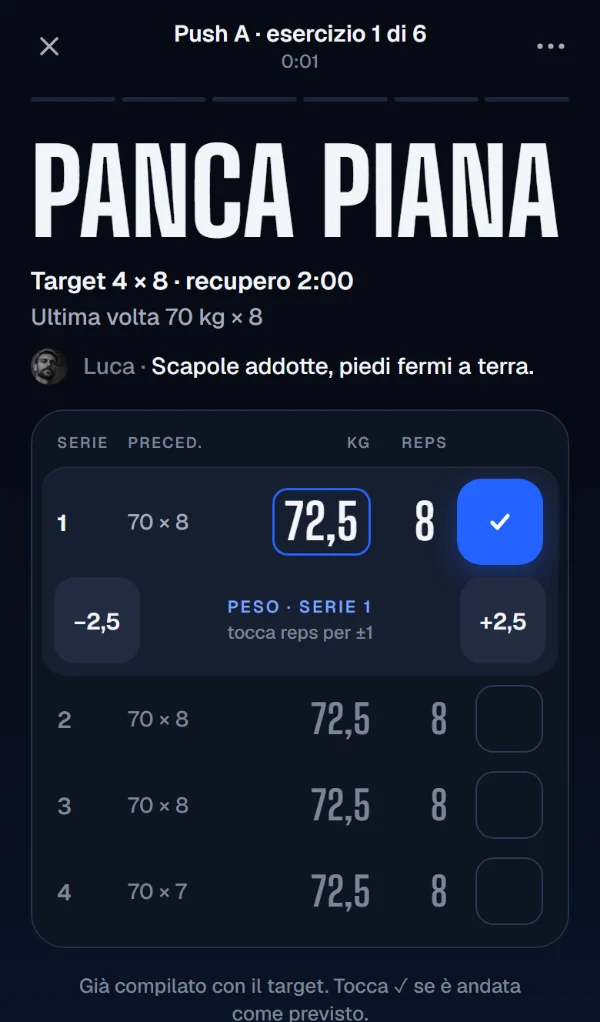
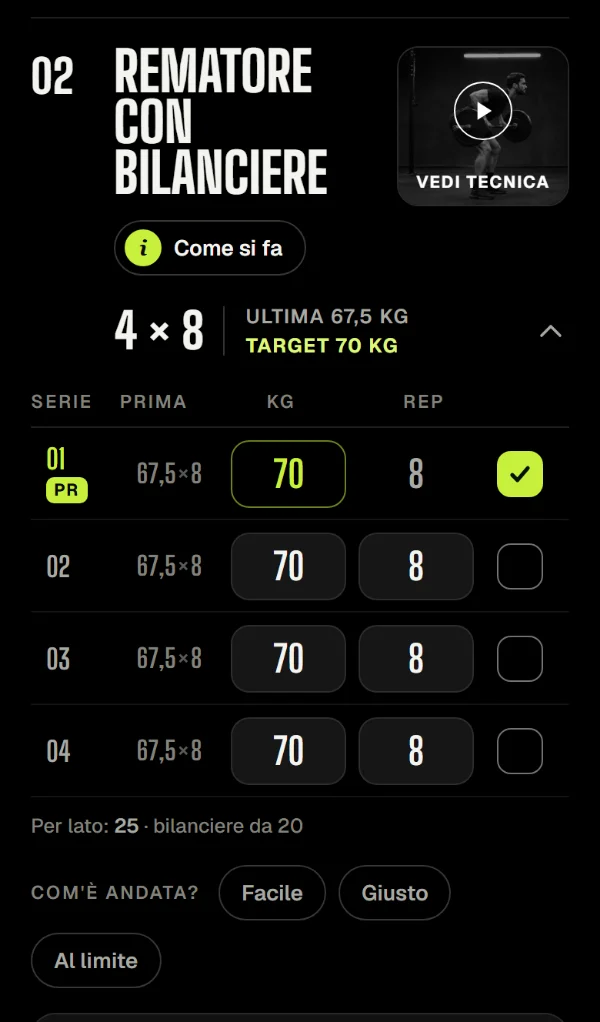
feat: sito in nero e lime, testi e schermate aggiornati (scheda, Come si fa, programma dal coach; via il timer)

diff --git a/assets/css/sito.css b/assets/css/sito.css
@@ -20,7 +20,7 @@ a.btn-secondario { color: var(--gesso); }
 /* Sezioni chiare */
 .chiaro { background: var(--gesso); color: var(--notte-0); }
 .chiaro .sopratitolo { color: var(--voltaico); }
-.chiaro .testo-grande { color: #3B4457; }
+.chiaro .testo-grande { color: #4A4A45; }
 
 /* Testata (non fissa) */
 .testata-sito {
@@ -38,8 +38,8 @@ a.btn-secondario { color: var(--gesso); }
 .apertura { position: relative; overflow: hidden; padding: 150px 0 96px; min-height: 100vh; display: flex; align-items: center; }
 .apertura-foto { position: absolute; inset: 0; }
 .apertura-foto img { width: 100%; height: 100%; object-fit: cover; object-position: 30% 25%; filter: grayscale(1) contrast(1.05); }
-.apertura-foto::before { content: ''; position: absolute; inset: 0; background: #0B2A6B; mix-blend-mode: color; opacity: .45; }
-.apertura-foto::after { content: ''; position: absolute; inset: 0; background: linear-gradient(90deg, rgba(6, 8, 13, .92) 0%, rgba(6, 8, 13, .7) 45%, rgba(6, 8, 13, .35) 100%), linear-gradient(rgba(6, 8, 13, .6), rgba(6, 8, 13, 0) 30%, rgba(6, 8, 13, 0) 70%, var(--notte-0)); }
+.apertura-foto::before { content: none; } /* nero e lime: foto in B/N puro, senza viraggio blu */
+.apertura-foto::after { content: ''; position: absolute; inset: 0; background: linear-gradient(90deg, rgba(0, 0, 0, .92) 0%, rgba(0, 0, 0, .7) 45%, rgba(0, 0, 0, .35) 100%), linear-gradient(rgba(0, 0, 0, .6), rgba(0, 0, 0, 0) 30%, rgba(0, 0, 0, 0) 70%, var(--notte-0)); }
 .apertura-griglia { position: relative; display: grid; grid-template-columns: minmax(0, 1.25fr) minmax(0, .75fr); gap: 56px; align-items: center; }
 .sottotitolo { font: 400 clamp(18px, 2vw, 22px)/1.5 var(--testo); color: var(--ardesia); margin: 26px 0 0; max-width: 560px; text-wrap: pretty; }
 .azioni-apertura { display: flex; flex-wrap: wrap; gap: 12px; margin-top: 34px; }
@@ -48,16 +48,16 @@ a.btn-secondario { color: var(--gesso); }
 .nota-demo b { color: var(--gesso); letter-spacing: .08em; }
 
 /* Telefoni con le schermate vere */
-.telefono { margin: 0; padding: 10px; border-radius: 52px; background: #1d2129; box-shadow: inset 0 0 0 1px rgba(255, 255, 255, .1), 0 40px 90px rgba(0, 0, 0, .55); max-width: 360px; justify-self: center; }
+.telefono { margin: 0; padding: 10px; border-radius: 52px; background: #1C1C1C; box-shadow: inset 0 0 0 1px rgba(255, 255, 255, .1), 0 40px 90px rgba(0, 0, 0, .55); max-width: 360px; justify-self: center; }
 .telefono img { width: 100%; height: auto; border-radius: 42px; }
-.chiaro .telefono { box-shadow: inset 0 0 0 1px rgba(255, 255, 255, .1), 0 30px 70px rgba(6, 8, 13, .25); }
+.chiaro .telefono { box-shadow: inset 0 0 0 1px rgba(255, 255, 255, .1), 0 30px 70px rgba(0, 0, 0, .25); }
 
 /* 2 · tre punti */
 .tre-punti { list-style: none; margin: 48px 0 0; padding: 0; display: grid; grid-template-columns: repeat(3, minmax(0, 1fr)); gap: 28px; }
 .tre-punti li { display: flex; flex-direction: column; gap: 8px; padding-top: 18px; border-top: 2px solid currentColor; }
 .tre-punti b { font: 700 28px/1 var(--display); text-transform: uppercase; }
 .tre-punti span { font: 400 16px/1.5 var(--testo); color: var(--ardesia); }
-.chiaro .tre-punti span { color: #3B4457; }
+.chiaro .tre-punti span { color: #4A4A45; }
 
 /* 3 · fila di telefoni */
 .intestazione-sezione { max-width: 760px; }
@@ -67,27 +67,27 @@ a.btn-secondario { color: var(--gesso); }
 .fila-telefoni figcaption b { display: block; font: 700 26px/1 var(--display); text-transform: uppercase; color: var(--gesso); margin-bottom: 6px; }
 
 /* 4 · gestionale */
-.schermo-pc { margin: 56px 0 0; padding: 10px; border-radius: 22px; background: #1d2129; box-shadow: 0 40px 90px rgba(6, 8, 13, .3); }
+.schermo-pc { margin: 56px 0 0; padding: 10px; border-radius: 22px; background: #1C1C1C; box-shadow: 0 40px 90px rgba(0, 0, 0, .3); }
 .schermo-pc img { width: 100%; height: auto; border-radius: 14px; display: block; }
 
 /* 5 / 6 · due colonne */
 .due-colonne { display: grid; grid-template-columns: minmax(0, 1fr) minmax(0, 1fr); gap: 64px; align-items: center; }
-.esempio-contesto { margin: 30px 0 0; padding: 18px 20px; border-radius: 18px; background: #142453; border: 1px solid #1F3A80; font: 400 17px/1.45 var(--testo); max-width: 460px; }
-.esempio-contesto span { display: block; width: fit-content; margin-bottom: 10px; padding: 4px 10px; border-radius: 8px; background: rgba(6, 8, 13, .35); border: 1px solid rgba(122, 162, 255, .25); font: 600 13px/18px var(--testo); color: var(--voltaico-chiaro); }
+.esempio-contesto { margin: 30px 0 0; padding: 18px 20px; border-radius: 18px; background: rgba(200, 240, 60, .1); border: 1px solid rgba(200, 240, 60, .3); font: 400 17px/1.45 var(--testo); max-width: 460px; }
+.esempio-contesto span { display: block; width: fit-content; margin-bottom: 10px; padding: 4px 10px; border-radius: 8px; background: rgba(0, 0, 0, .35); border: 1px solid rgba(221, 247, 122, .25); font: 600 13px/18px var(--testo); color: var(--voltaico-chiaro); }
 .foto-sezione { margin: 0; border-radius: 22px; overflow: hidden; }
 .foto-sezione img { width: 100%; height: auto; display: block; filter: grayscale(1); }
 .passi { list-style: none; counter-reset: p; margin: 34px 0 0; padding: 0; display: flex; flex-direction: column; }
-.passi li { counter-increment: p; display: grid; grid-template-columns: 56px 1fr; column-gap: 8px; padding: 18px 0; border-top: 1px solid rgba(6, 8, 13, .12); }
+.passi li { counter-increment: p; display: grid; grid-template-columns: 56px 1fr; column-gap: 8px; padding: 18px 0; border-top: 1px solid rgba(0, 0, 0, .12); }
 .passi li::before { content: counter(p, decimal-leading-zero); grid-row: 1 / 3; font: 800 40px/1 var(--display); color: var(--voltaico); }
 .passi b { font: 700 26px/1.05 var(--display); text-transform: uppercase; }
-.passi span { font: 400 16px/1.5 var(--testo); color: #3B4457; margin-top: 4px; }
+.passi span { font: 400 16px/1.5 var(--testo); color: #4A4A45; margin-top: 4px; }
 
 /* 7 · chiusura */
 .chiusura { text-align: center; padding: 120px 0; }
 .chiusura .testo-grande { margin-left: auto; margin-right: auto; }
 
 /* Piede: bianco, senza logo (l'ultima sezione è scura) */
-.piede { background: var(--gesso); color: #3B4457; padding: 28px 20px; text-align: center; font: 500 14px/1.6 var(--testo); }
+.piede { background: var(--gesso); color: #4A4A45; padding: 28px 20px; text-align: center; font: 500 14px/1.6 var(--testo); }
 .piede p { margin: 0; }
 
 /* Tablet e telefono */
@@ -95,7 +95,7 @@ a.btn-secondario { color: var(--gesso); }
   section { padding: 72px 0; }
   .apertura { padding: 120px 0 72px; min-height: 0; }
   .apertura-griglia, .due-colonne { grid-template-columns: 1fr; gap: 48px; }
-  .apertura-foto::after { background: linear-gradient(rgba(6, 8, 13, .65), rgba(6, 8, 13, .55) 40%, var(--notte-0) 100%); }
+  .apertura-foto::after { background: linear-gradient(rgba(0, 0, 0, .65), rgba(0, 0, 0, .55) 40%, var(--notte-0) 100%); }
   .telefono { max-width: 320px; }
   .fila-telefoni { grid-template-columns: 1fr; gap: 56px; }
   .tre-punti { grid-template-columns: 1fr; gap: 22px; }
@@ -106,3 +106,7 @@ a.btn-secondario { color: var(--gesso); }
   .azioni-apertura a { width: 100%; }
   .testata-sito { padding: 16px; }
 }
+
+/* Nero e lime (2026-11-03): sul fondo chiaro il lime non si legge, gli accenti diventano oliva scuro */
+.chiaro { --accento-chiaro: #4F6300; }
+.chiaro .sopratitolo, .chiaro .passi li::before { color: var(--accento-chiaro); }

diff --git a/index.html b/index.html
@@ -4,13 +4,14 @@
 <meta charset="utf-8">
 <meta name="viewport" content="width=device-width, initial-scale=1">
 <meta name="robots" content="noindex, nofollow">
-<meta name="theme-color" content="#06080D">
+<meta name="theme-color" content="#000000">
 <title>Carico · L'app per personal trainer che seguono davvero</title>
 <meta name="description" content="Programma, serie registrate, video della tecnica e messaggi con il contesto dell'allenamento: l'app che collega personal trainer e atleti.">
 <link rel="preconnect" href="https://fonts.googleapis.com">
 <link rel="preconnect" href="https://fonts.gstatic.com" crossorigin>
 <link href="https://fonts.googleapis.com/css2?family=Big+Shoulders+Display:wght@600;700;800&family=Geist:wght@400;500;600;700&display=swap" rel="stylesheet">
 <link rel="stylesheet" href="assets/css/sistema.css">
+<link rel="stylesheet" href="assets/css/nero-lime.css">
 <link rel="stylesheet" href="assets/css/sito.css">
 </head>
 <body>
@@ -39,7 +40,7 @@
         </div>
         <p class="nota-demo">Demo senza registrazione · codice di prova <b>LUCA26</b></p>
       </div>
-      <figure class="telefono"><img src="assets/sito/app-oggi.webp" alt="Schermata Oggi: Push A, petto spalle tricipiti, 6 esercizi, pulsante Inizia allenamento, settimana e messaggio del coach" width="600" height="1022"></figure>
+      <figure class="telefono"><img src="assets/sito/app-oggi.webp" alt="Schermata Oggi: Push A, petto spalle tricipiti, 6 esercizi, pulsante Apri scheda e settimana in corso" width="600" height="1022"></figure>
     </div>
   </section>
 
@@ -63,11 +64,11 @@
       <div class="intestazione-sezione">
         <span class="sopratitolo">Per l'atleta</span>
         <h2 id="t-atleta">Un tocco per serie.</h2>
-        <p class="testo-grande">Le serie sono già compilate con il carico deciso da te. Se è andata come previsto basta il segno di spunta: il recupero parte da solo e vibra quando è ora.</p>
+        <p class="testo-grande">Le serie sono già compilate con il carico deciso da te. Se è andata come previsto basta la spunta. Se ha fatto di più, scrive il peso: accanto vede cosa ha fatto la settimana scorsa.</p>
       </div>
       <div class="fila-telefoni">
-        <figure><div class="telefono"><img src="assets/sito/app-allenamento.webp" alt="Panca piana: target 4 × 8, ultima volta 70 kg × 8, serie già compilate a 72,5 kg" width="600" height="1022" loading="lazy"></div><figcaption><b>Sa cosa fare</b>Target, ultima volta e nota del coach sulla stessa schermata.</figcaption></figure>
-        <figure><div class="telefono"><img src="assets/sito/app-recupero.webp" alt="Recupero con il timer grande, +30 secondi e Salta" width="600" height="1022" loading="lazy"></div><figcaption><b>Recupera senza pensarci</b>Timer automatico, +30 s, e la prossima serie già pronta.</figcaption></figure>
+        <figure><div class="telefono"><img src="assets/sito/app-allenamento.webp" alt="Scheda di Pull A: rematore con bilanciere aperto, target 70 kg, tabella serie, chili e ripetizioni con la colonna della settimana scorsa" width="600" height="1022" loading="lazy"></div><figcaption><b>Sa cosa fare</b>Target, settimana scorsa e nota del coach sulla stessa scheda.</figcaption></figure>
+        <figure><div class="telefono"><img src="assets/sito/app-guida.webp" alt="Come si fa il lento avanti: video del coach, muscoli, passi numerati ed errori da evitare" width="600" height="1022" loading="lazy"></div><figcaption><b>Sa come farlo</b>Un tocco su «Come si fa»: il tuo video, i passi e gli errori da evitare.</figcaption></figure>
         <figure><div class="telefono"><img src="assets/sito/app-progressi.webp" alt="Progressi della panca piana: 70 kg × 8, grafico reale contro piano del coach" width="600" height="1022" loading="lazy"></div><figcaption><b>Vede i progressi veri</b>Il suo carico contro il piano che hai scritto, settimana per settimana.</figcaption></figure>
       </div>
     </div>
@@ -79,13 +80,13 @@
       <div class="intestazione-sezione">
         <span class="sopratitolo">Per il coach</span>
         <h2 id="t-coach">Apri il computer, sai chi seguire.</h2>
-        <p class="testo-grande">Il gestionale parte da una coda ordinata per priorità: video da rivedere, check-in, atleti che hanno saltato gli allenamenti. Valuti la tecnica, decidi il carico della prossima sessione e scrivi una riga. L'atleta lo trova in Home.</p>
+        <p class="testo-grande">Il gestionale parte da una coda ordinata per priorità: video da rivedere, check-in, atleti che hanno saltato gli allenamenti. Valuti la tecnica, decidi il carico e cambi il programma quando serve: l'atleta lo trova nella scheda.</p>
       </div>
       <figure class="schermo-pc"><img src="assets/sito/coach.webp" alt="Gestionale del coach: coda da rivedere, video dello squat di Marco aperto con valutazione, carico della prossima sessione e messaggio" width="1600" height="1111" loading="lazy"></figure>
       <ul class="tre-punti">
         <li><b>Revisione in tre tocchi</b><span>Tecnica ottima o da correggere, mantieni, aumenta o riduci, una nota.</span></li>
-        <li><b>Video richiesto</b><span>Segni un esercizio e l'atleta sa quale serie registrare.</span></li>
-        <li><b>Check-in della domenica</b><span>Allenamenti, energia e carichi: un minuto per lui, una lettura per te.</span></li>
+        <li><b>Programma al volo</b><span>Cambi serie, ripetizioni e carichi: arrivano nella prossima scheda dell'atleta.</span></li>
+        <li><b>Sai com'è andata</b><span>Serie fatte, record, fatica e note dell'atleta, esercizio per esercizio.</span></li>
       </ul>
     </div>
   </section>

diff --git a/_build/schermate.js b/_build/schermate.js
@@ -30,11 +30,15 @@ async function webp(page, png, file, larghezza) {
     await p.goto(URL(url)); await p.waitForTimeout(900);
     if (prima) { await prima(); await p.waitForTimeout(500); }
     await p.evaluate(() => document.getElementById('avviso').classList.remove('su'));
+    await p.waitForTimeout(500); // l'avviso sparisce con un'animazione: se no resta mezzo visibile nella foto
     await webp(conv, await p.screenshot(), file, 600);
   };
   await scatta('app.html?giorno=4', 'app-oggi.webp');
-  await scatta('app.html?giorno=4#allenamento', 'app-allenamento.webp', async () => { await p.evaluate(() => localStorage.removeItem('pt-sessione-' + new Date().toISOString())); });
-  await scatta('app.html?giorno=4#allenamento', 'app-recupero.webp', async () => { await p.click('#fatta'); await p.waitForTimeout(1300); });
+  await scatta('app.html?giorno=2#allenamento', 'app-allenamento.webp', async () => { // scheda: trazioni fatte, rematore aperto a metà
+    for (let j = 0; j < 4; j++) await p.click('[data-spunta="0-' + j + '"]');
+    await p.click('[data-spunta="1-0"]'); await p.waitForTimeout(400); await p.evaluate(() => { const s = document.querySelector('.es.aperto'); window.scrollTo(0, s.getBoundingClientRect().top + scrollY - 12); });
+  });
+  await scatta('app.html?giorno=4#allenamento', 'app-guida.webp', async () => { await p.click('[data-apri="1"]'); await p.waitForTimeout(300); await p.click('.es.aperto .come-si-fa'); });
   await scatta('app.html?giorno=4#coach/' + encodeURIComponent('Lento avanti · Push A · Serie 2 · 42,5 kg × 8'), 'app-chat.webp', async () => { await p.fill('#testo-chat', 'A fine serie sento la spalla destra, è normale?'); });
   await scatta('app.html?giorno=4#progressi', 'app-progressi.webp');
   await p.evaluate(() => Object.keys(localStorage).forEach((k) => localStorage.removeItem(k)));
